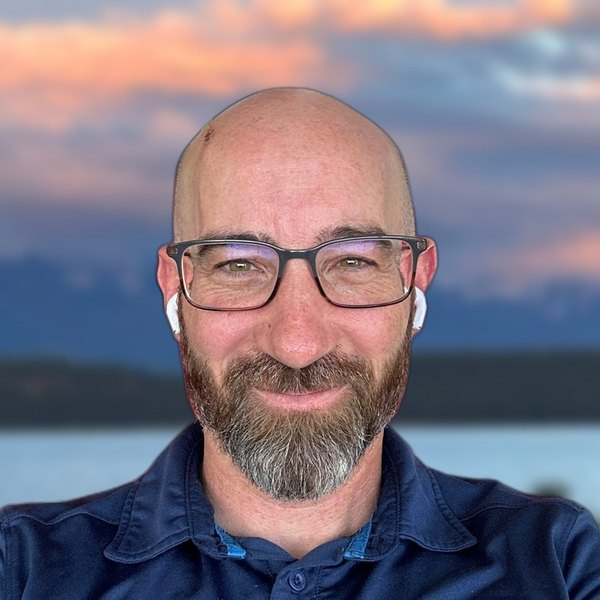
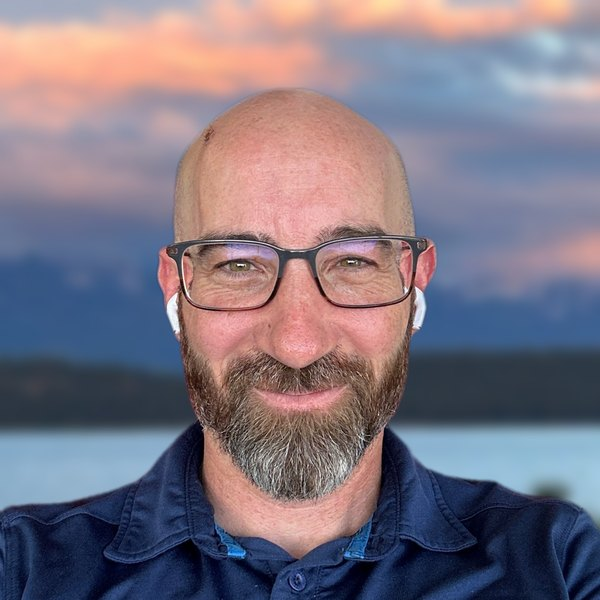
My Story: new portrait, fix cabin wording, link to site stack
Claude-Session: https://claude.ai/code/session_01WUYX1fUewAYM15jRTUFpzH

diff --git a/story.html b/story.html
@@ -103,13 +103,13 @@ footer p{margin:0;opacity:.85}
 
  <section class="ch reveal">
   <div class="pics two">
-   <figure><img src="img/cabin.jpg" alt="The family cabin above the lakeshore in Montana, with a bonfire on the hillside" loading="lazy"></figure>
+   <figure><img src="img/cabin.jpg" alt="The family cabin among the pines above the lakeshore in Montana" loading="lazy"></figure>
    <figure><img src="img/rainbow.jpg" alt="A double rainbow over the lake and pines in Montana" loading="lazy"></figure>
   </div>
   <div>
    <span class="no">Montana</span>
    <h2>The family cabin</h2>
-   <p>Our cabin in Montana is my favorite place on earth: bonfires on the hill, the dock in the evening, and every now and then a double rainbow over the lake.</p>
+   <p>Our cabin in Montana is my favorite place on earth: tall pines, quiet mornings on the water, the dock in the evening, and every now and then a double rainbow over the lake.</p>
   </div>
  </section>
 
@@ -126,7 +126,7 @@ footer p{margin:0;opacity:.85}
  </section>
 
  <section class="ch reveal">
-  <div class="pics"><figure><img src="img/porch.jpg" alt="Colby in a BYU polo, smiling in a red porch chair" loading="lazy" style="aspect-ratio:4/5;max-height:560px"></figure></div>
+  <div class="pics"><figure><img src="img/porch.jpg" alt="Colby smiling, with a Montana lake and mountains behind him" loading="lazy" style="aspect-ratio:4/5;max-width:440px"></figure></div>
   <div>
    <span class="no">Work and faith</span>
    <h2>The classroom and the church</h2>
@@ -135,11 +135,12 @@ footer p{margin:0;opacity:.85}
     <li><span>Teaching</span>Finance professor, BYU</li>
     <li><span>Faith</span>Latter-day Saint, ecumenical at heart</li>
    </ul>
+   <p style="margin-top:18px">Curious about my non-spiritual work? Tools I've built for economics, investing, my finance classes, and even snowmobiling live on <a href="https://wrigh1ca-code.github.io/" style="color:var(--gold);text-decoration:underline;text-underline-offset:3px">my site stack</a>.</p>
   </div>
  </section>
 
  <section class="ch flip reveal">
-  <div class="pics"><figure><img src="img/pup.jpg" alt="Colby in a BYU cap hugging King Louie, a fluffy black, white and tan puppy" loading="lazy" style="aspect-ratio:4/5;max-height:560px"></figure></div>
+  <div class="pics"><figure><img src="img/pup.jpg" alt="Colby in a BYU cap hugging King Louie, a fluffy black, white and tan puppy" loading="lazy" style="aspect-ratio:4/5;max-width:440px"></figure></div>
   <div>
    <span class="no">One more thing</span>
    <h2>And King Louie</h2>
